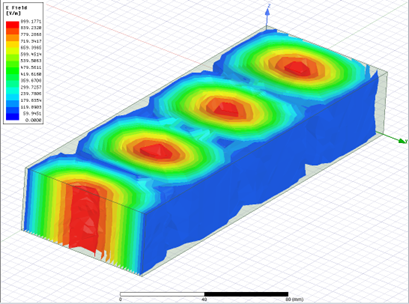
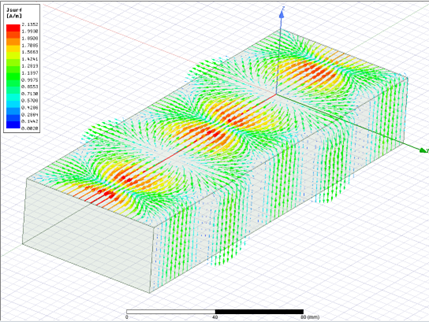
Site updated: 2023-03-25 20:52:09

diff --git a/2023/03/25/微波-矩形波导设计仿真与分析/index.html b/2023/03/25/微波-矩形波导设计仿真与分析/index.html
@@ -23,15 +23,16 @@
 <meta property="og:site_name" content="Chuanzaiii">
 <meta property="og:description" content="实验过程记录使用HFSS软件设计建模BJ-32矩形波导结构主要仿真步骤BJ-32矩形波导结构尺寸为ab*&#x3D;*72.1434.04mm,长为200mm,在属性窗口设置矩形波导中传输介质为空气，透明度为0.8，设置边界条件和端口激励 仿真结果 BJ-32矩形波导结构如图2-1所示 仿真分析TE10模的场分布，管壁电流分布主要仿真步骤1.设置工作频率为2.8GHz+学号尾号*100MHz，即3.3GHz">
 <meta property="og:locale" content="zh_CN">
-<meta property="og:image" content="http://example.com/2023/03/25/%E5%BE%AE%E6%B3%A2-%E7%9F%A9%E5%BD%A2%E6%B3%A2%E5%AF%BC%E8%AE%BE%E8%AE%A1%E4%BB%BF%E7%9C%9F%E4%B8%8E%E5%88%86%E6%9E%90/bing.jpg">
-<meta property="og:image" content="http://example.com/2023/03/25/%E5%BE%AE%E6%B3%A2-%E7%9F%A9%E5%BD%A2%E6%B3%A2%E5%AF%BC%E8%AE%BE%E8%AE%A1%E4%BB%BF%E7%9C%9F%E4%B8%8E%E5%88%86%E6%9E%90/image.png">
+<meta property="og:image" content="http://example.com/2023/03/25/%E5%BE%AE%E6%B3%A2-%E7%9F%A9%E5%BD%A2%E6%B3%A2%E5%AF%BC%E8%AE%BE%E8%AE%A1%E4%BB%BF%E7%9C%9F%E4%B8%8E%E5%88%86%E6%9E%90/i.jpg">
+<meta property="og:image" content="http://example.com/2023/03/25/%E5%BE%AE%E6%B3%A2-%E7%9F%A9%E5%BD%A2%E6%B3%A2%E5%AF%BC%E8%AE%BE%E8%AE%A1%E4%BB%BF%E7%9C%9F%E4%B8%8E%E5%88%86%E6%9E%90/im.png">
+<meta property="og:image" content="http://example.com/2023/03/25/%E5%BE%AE%E6%B3%A2-%E7%9F%A9%E5%BD%A2%E6%B3%A2%E5%AF%BC%E8%AE%BE%E8%AE%A1%E4%BB%BF%E7%9C%9F%E4%B8%8E%E5%88%86%E6%9E%90/imag.png">
 <meta property="article:published_time" content="2023-03-25T12:00:56.000Z">
-<meta property="article:modified_time" content="2023-03-25T12:47:45.930Z">
+<meta property="article:modified_time" content="2023-03-25T12:51:50.082Z">
 <meta property="article:author" content="Chuanzaiii">
 <meta property="article:tag" content="HFSS">
 <meta property="article:tag" content="微波">
 <meta name="twitter:card" content="summary_large_image">
-<meta name="twitter:image" content="http://example.com/2023/03/25/%E5%BE%AE%E6%B3%A2-%E7%9F%A9%E5%BD%A2%E6%B3%A2%E5%AF%BC%E8%AE%BE%E8%AE%A1%E4%BB%BF%E7%9C%9F%E4%B8%8E%E5%88%86%E6%9E%90/bing.jpg">
+<meta name="twitter:image" content="http://example.com/2023/03/25/%E5%BE%AE%E6%B3%A2-%E7%9F%A9%E5%BD%A2%E6%B3%A2%E5%AF%BC%E8%AE%BE%E8%AE%A1%E4%BB%BF%E7%9C%9F%E4%B8%8E%E5%88%86%E6%9E%90/i.jpg">
   
   
   
@@ -224,7 +225,7 @@
       <span class="post-meta mr-2">
         <i class="iconfont icon-chart"></i>
         
-          769 字
+          667 字
         
       </span>
     
@@ -235,7 +236,7 @@
         
         
         
-          7 分钟
+          6 分钟
         
       </span>
     
@@ -279,10 +280,10 @@
               <div class="markdown-body">
                 
                 <h1 id="实验过程记录"><a href="#实验过程记录" class="headerlink" title="实验过程记录"></a>实验过程记录</h1><h2 id="使用HFSS软件设计建模BJ-32矩形波导结构"><a href="#使用HFSS软件设计建模BJ-32矩形波导结构" class="headerlink" title="使用HFSS软件设计建模BJ-32矩形波导结构"></a>使用HFSS软件设计建模BJ-32矩形波导结构</h2><h3 id="主要仿真步骤"><a href="#主要仿真步骤" class="headerlink" title="主要仿真步骤"></a>主要仿真步骤</h3><p>BJ-32矩形波导结构尺寸为a<em>b</em>*=*<em>72.14</em>34.04mm,长为200mm,在属性窗口设置矩形波导中传输介质为空气，透明度为0.8，设置边界条件和端口激励</p>
-<h3 id="仿真结果"><a href="#仿真结果" class="headerlink" title="仿真结果"></a>仿真结果</h3><p> BJ-32矩形波导结构如图2-1所示<br><img src="/2023/03/25/%E5%BE%AE%E6%B3%A2-%E7%9F%A9%E5%BD%A2%E6%B3%A2%E5%AF%BC%E8%AE%BE%E8%AE%A1%E4%BB%BF%E7%9C%9F%E4%B8%8E%E5%88%86%E6%9E%90/bing.jpg" srcset="/img/loading.gif" lazyload alt="你好！"></p>
+<h3 id="仿真结果"><a href="#仿真结果" class="headerlink" title="仿真结果"></a>仿真结果</h3><p> BJ-32矩形波导结构如图2-1所示<br><img src="/2023/03/25/%E5%BE%AE%E6%B3%A2-%E7%9F%A9%E5%BD%A2%E6%B3%A2%E5%AF%BC%E8%AE%BE%E8%AE%A1%E4%BB%BF%E7%9C%9F%E4%B8%8E%E5%88%86%E6%9E%90/i.jpg" srcset="/img/loading.gif" lazyload alt="BJ-32矩形波导"></p>
 <h2 id="仿真分析TE10模的场分布，管壁电流分布"><a href="#仿真分析TE10模的场分布，管壁电流分布" class="headerlink" title="仿真分析TE10模的场分布，管壁电流分布"></a>仿真分析TE10模的场分布，管壁电流分布</h2><h3 id="主要仿真步骤-1"><a href="#主要仿真步骤-1" class="headerlink" title="主要仿真步骤"></a>主要仿真步骤</h3><h4 id="1"><a href="#1" class="headerlink" title="1."></a>1.</h4><p>设置工作频率为2.8GHz+学号尾号*100MHz，即3.3GHz, HFSS&gt;Analysis Setup&gt;Add Solution Setup，可以进行自适应频率和收敛标准的设置，设置solution Frequency，Setup1=3.3GHz；设置扫频：Setup1→Add Frequency Sweep→Interpolating差值扫频 1~10GHz。</p>
 <h4 id="2"><a href="#2" class="headerlink" title="2."></a>2.</h4><p>右键Setup1，选择Analyze进行分析。对Setup1分析完毕后，可观察场分布，选择Field overlays右键editsource，可以查看不同模式的场，此处分析TE10模的场分布，故选择Source为1：1的场，取Magnitude为1，其余为0；选择Plot Fields中的Mag_E（电场瞬时幅度变化）、Vector_E(电场瞬时矢量)和Vector_H(磁场瞬时矢量)可观察TE10模的电场和磁场分布；选择Vector_Jsurf可观察管壁表面电流分布</p>
-<h3 id="仿真结果-1"><a href="#仿真结果-1" class="headerlink" title="仿真结果"></a>仿真结果</h3><p><img src="/2023/03/25/%E5%BE%AE%E6%B3%A2-%E7%9F%A9%E5%BD%A2%E6%B3%A2%E5%AF%BC%E8%AE%BE%E8%AE%A1%E4%BB%BF%E7%9C%9F%E4%B8%8E%E5%88%86%E6%9E%90/image.png" srcset="/img/loading.gif" lazyload alt="图2-2-1 电场瞬时幅度变化（3.3GHz TE10模）"><br>![图2-2-2 电场瞬时矢量（3.3GHz TE10模）]（图2-2-2 电场瞬时矢量（3.3GHz TE10模）.png）<br>![[图2-2-3 磁场瞬时矢量（3.3GHz TE10模）.png]]<br>图2-2-3 磁场瞬时矢量（3.3GHz TE10模）<br>![[图2-2-4 管壁表面电流分布（3.3GHz TE10模）.png]]<br>图2-2-4 管壁表面电流分布（3.3GHz TE10模）</p>
+<h3 id="仿真结果-1"><a href="#仿真结果-1" class="headerlink" title="仿真结果"></a>仿真结果</h3><p><img src="/2023/03/25/%E5%BE%AE%E6%B3%A2-%E7%9F%A9%E5%BD%A2%E6%B3%A2%E5%AF%BC%E8%AE%BE%E8%AE%A1%E4%BB%BF%E7%9C%9F%E4%B8%8E%E5%88%86%E6%9E%90/im.png" srcset="/img/loading.gif" lazyload alt="图2-2-1 电场瞬时幅度变化（3.3GHz TE10模）"><br>![图2-2-2 电场瞬时矢量（3.3GHz TE10模）]（ima.png）<br><img src="/2023/03/25/%E5%BE%AE%E6%B3%A2-%E7%9F%A9%E5%BD%A2%E6%B3%A2%E5%AF%BC%E8%AE%BE%E8%AE%A1%E4%BB%BF%E7%9C%9F%E4%B8%8E%E5%88%86%E6%9E%90/imag.png" srcset="/img/loading.gif" lazyload alt="图2-2-3 磁场瞬时矢量（3.3GHz TE10模）"><br>![图2-2-4 管壁表面电流分布（3.3GHz TE10模）]](image.png)</p>
 
                 
               </div>
